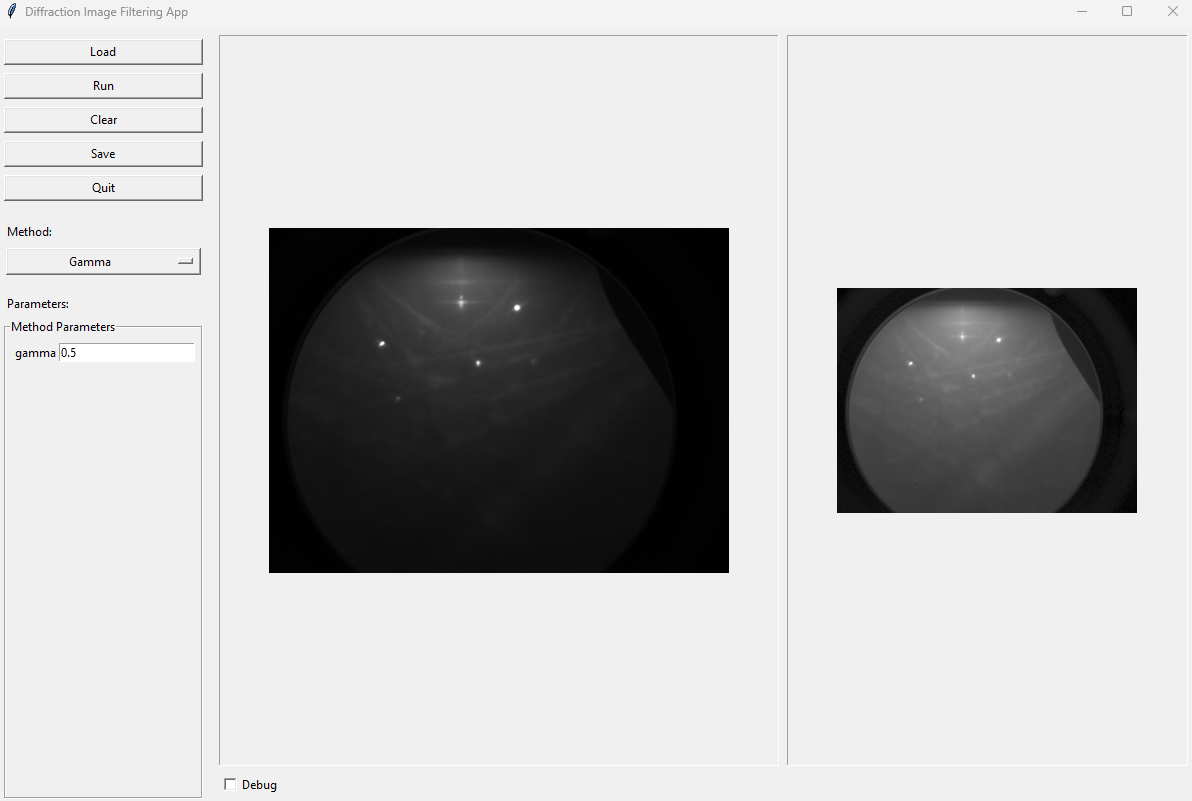
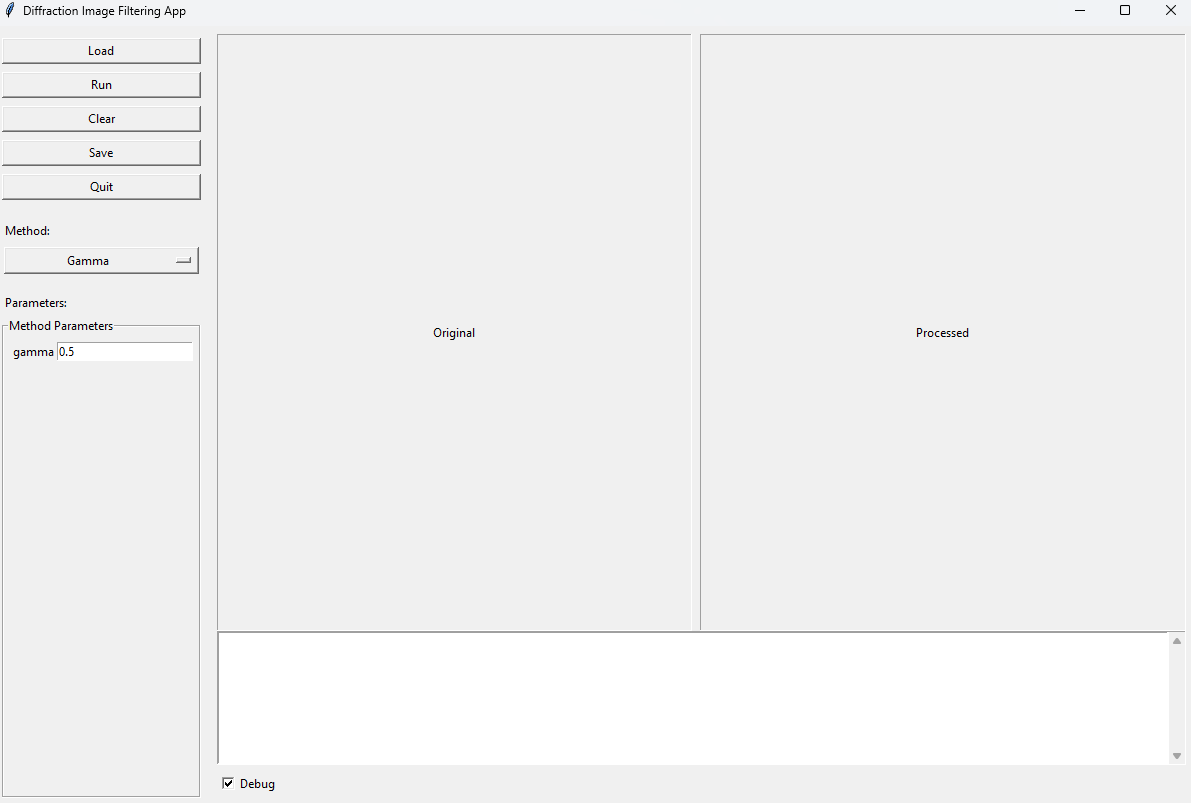
readme

diff --git a/readme.md b/readme.md
@@ -1,4 +1,4 @@
-# Diffraction Image Filtering App 🩻
+# Diffraction Image Filtering App
 
 Dedicated to filtering diffraction images obtained with techniques such as **RHEED** or **EBSD**. Minimal desktop app to load diffraction images, convert them to HDF5, apply filtering pipelines, preview results, and save outputs.
 
@@ -28,5 +28,7 @@ From the project root:
 - Click **Save** to write the processed image.
 - The **Debug** panel under the previews shows logs.
 
-The application should start with the following screen (loaded RHEED image as example):
+The application should start with the following screen:
 ![main.png](docs/main.png)
+
+Suitable images to test the tool are the ones demonstrated in the publication: [AstroEBSD: exploring new space in pattern indexing with methods launched from an astronomical approach](https://journals.iucr.org/paper?S1600576718010373) by T. B. Britton et al. (2018)
